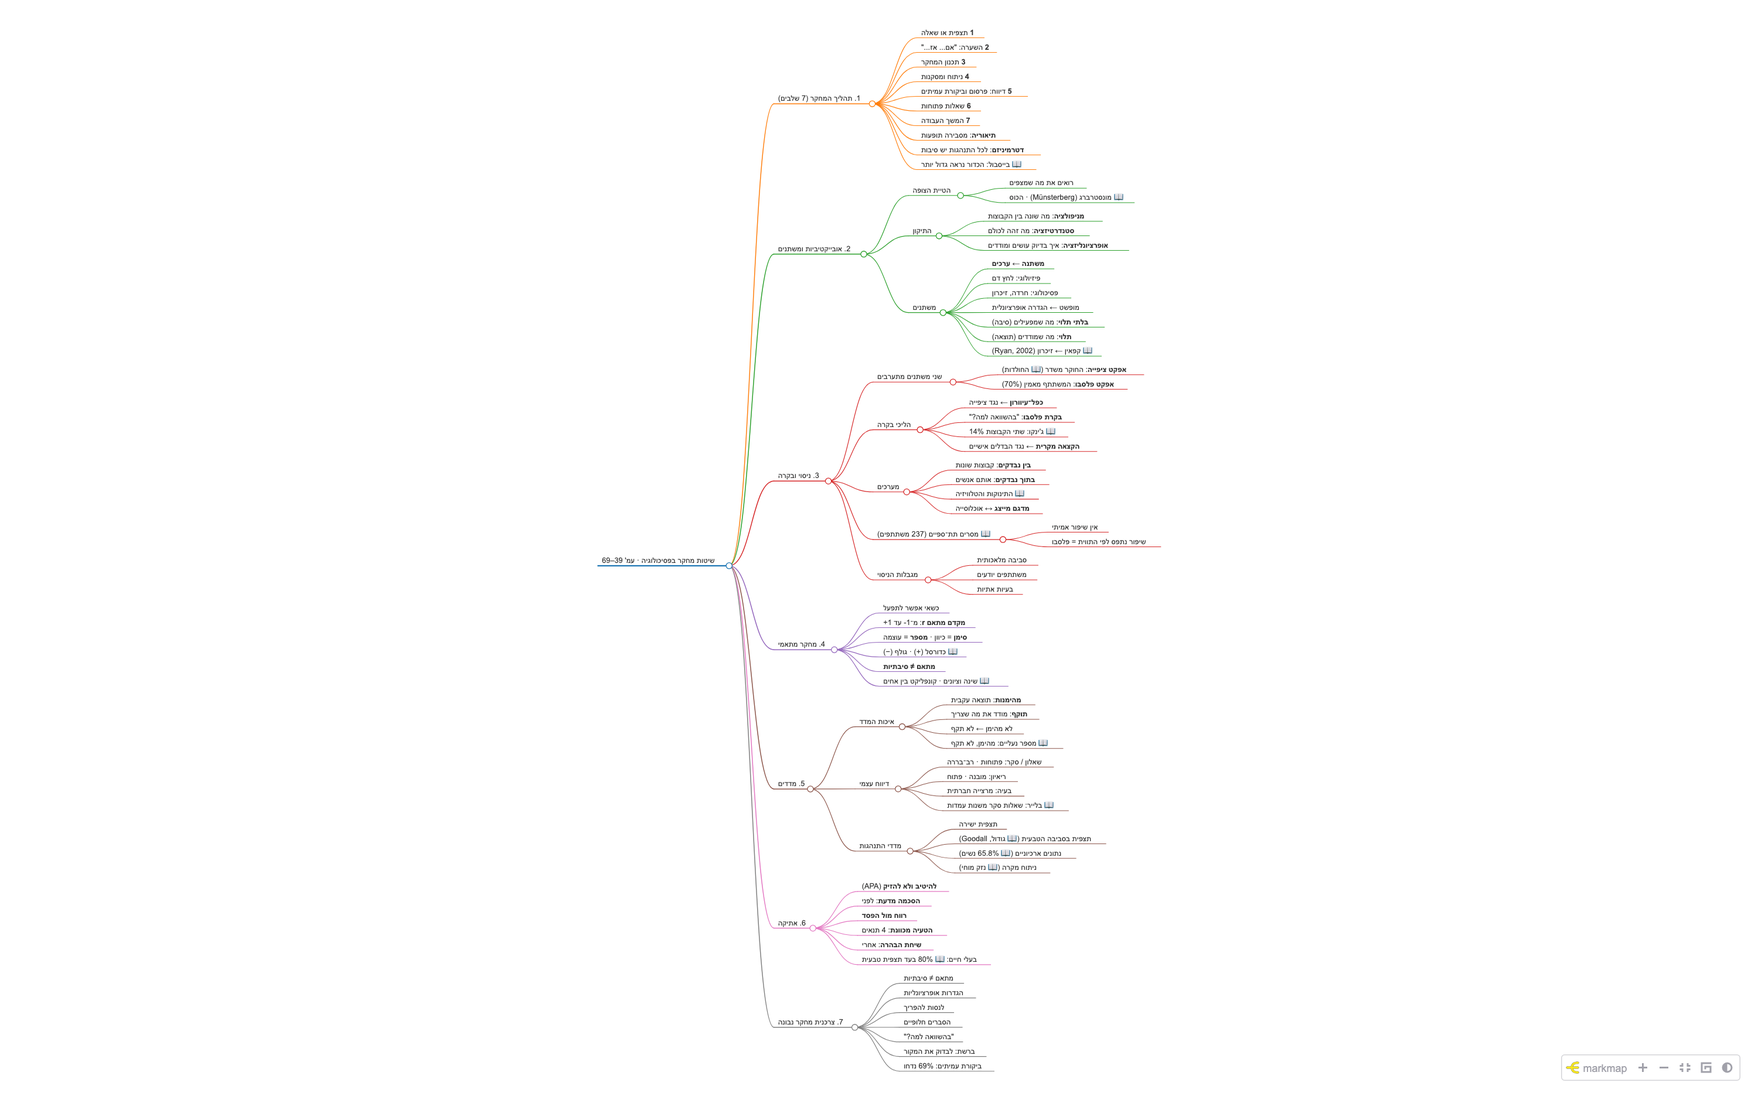
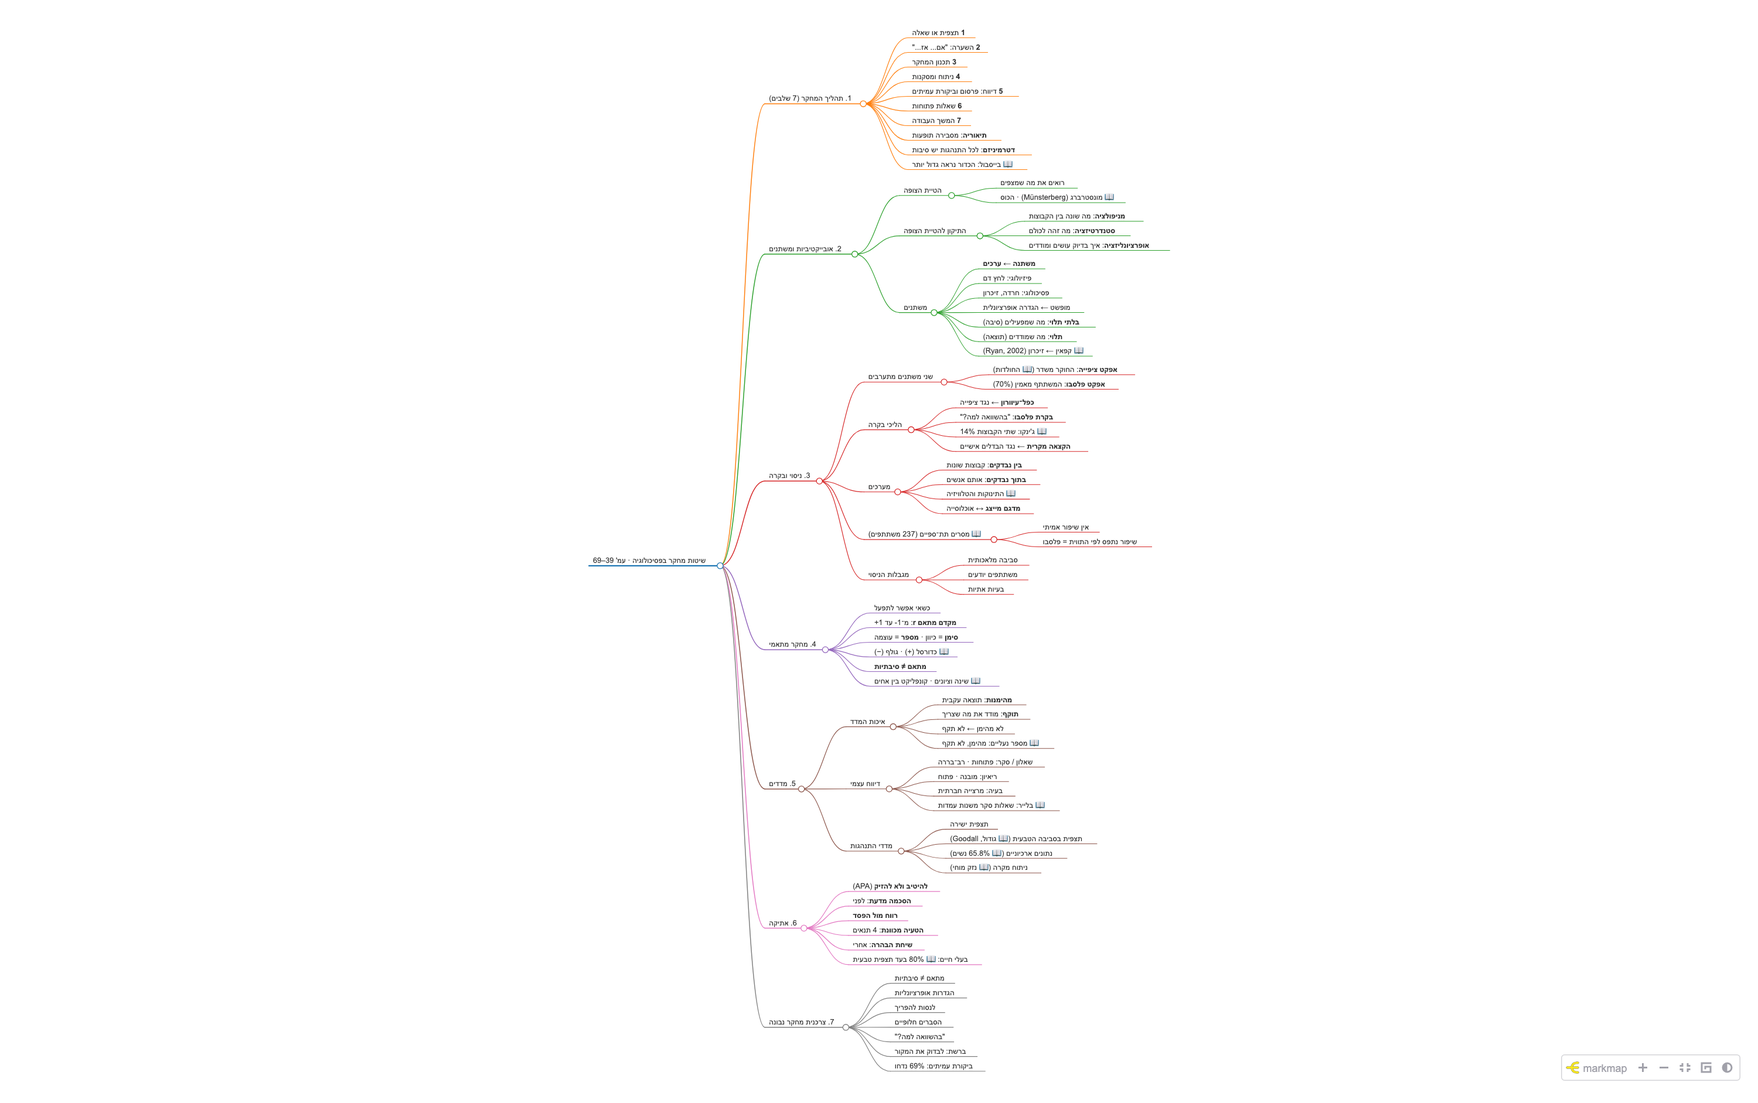
Chapter 2: clearer manipulation, standardization and operationalization; Feynman log
Section 2.4 now has a three-term table (with Russian) and two worked studies;
the fix is tied to observer bias; book term 'נקידה' restored. New style rule:
full concrete examples instead of blank templates.

diff --git a/מפות-חשיבה/39-69-שיטות-מחקר-בפסיכולוגיה.html b/מפות-חשיבה/39-69-שיטות-מחקר-בפסיכולוגיה.html
@@ -43,7 +43,7 @@ markmap:
 ### הטיית הצופה
 - רואים את מה שמצפים
 - 📖 מונסטרברג (Münsterberg) · הכוס
-### התיקון
+### התיקון להטיית הצופה
 - **מניפולציה**: מה שונה בין הקבוצות
 - **סטנדרטיזציה**: מה זהה לכולם
 - **אופרציונליזציה**: איך בדיוק עושים ומודדים

diff --git a/סיכומים/39-69-שיטות-מחקר-בפסיכולוגיה.md b/סיכומים/39-69-שיטות-מחקר-בפסיכולוגיה.md
@@ -93,6 +93,7 @@
 - 📖 **הוגו מונסטרברג (Hugo Münsterberg)**, תחילת המאה ה־20: הוא נשא נאום על שלום מול קהל גדול, וביניהם עיתונאים. הדיווחים בעיתונים סתרו זה את זה: אחד כתב שהקהל הופתע ושתק, אחר כתב שהיו מחיאות כפיים כל הזמן. אחד כתב שהנואם חייך, אחר שפניו היו רציניות. ייתכן שההבדלים נבעו מ**ההשקפות הפוליטיות** של העיתונאים.
 - 📖 **תרשים 2.2, הכוס:** אם ראית קודם כוסות שמתמלאות, תגידי שהכוס "חצי מלאה". אם ראית כוסות שמתרוקנות, תגידי "חצי ריקה". הניסיון הקודם שלך משנה את הפירוש.
 - **ההטיות פועלות כמו מסננת:** חלק מהדברים נראים חשובים ובעלי משמעות, וחלק "נעלמים" כלא רלוונטיים.
+- ➜ **איך מצמצמים אותה?** סטנדרטיזציה והגדרות אופרציונליות. זה "התיקון" (סעיף 2.4).
 - **מתי היא נוצרת?** (שאלה 8 במדריך) כשלחוקר יש **תיאוריה או ציפייה מראש**, וכשההתנהגות **פתוחה לפרשנות** (מונחים מופשטים). בספר: חוקר שעורך תצפית מחויב בדרך כלל לתיאוריה מסוימת.
 
 ### 2.2 משתנה ★ וערכים ★
@@ -112,17 +113,29 @@
 
 > **טריק זיכרון** *(לא מהספר)*: "**התלוי תלוי במה שעשו לבלתי תלוי.**" הבלתי תלוי לא תלוי בשום דבר בניסוי, כי החוקר בוחר אותו.
 
-### 2.4 התיקון: סטנדרטיזציה ★ ואופרציונליזציה
+### 2.4 התיקון להטיית הצופה: סטנדרטיזציה ★ ואופרציונליזציה
 
-> **התמונה המלאה במשפט אחד** *(לא מהספר)*: בניסוי משנים **דבר אחד** (מניפולציה), שומרים **את כל השאר** זהה (סטנדרטיזציה), ומגדירים **בדיוק** כל דבר שעושים ומודדים (אופרציונליזציה).
+> 📖 **"התיקון"** (כותרת בספר, עמ' 43) = מה החוקרים עושים כדי **לצמצם את הטיית הצופה** (סעיף 2.1). שני הכלים: **סטנדרטיזציה** ו**הגדרות אופרציונליות**.
 
-|                              | **מניפולציה** (manipulation)                  | **סטנדרטיזציה** ★ (standardization)                                                     | **אופרציונליזציה** (operationalization)                                             |
-| ---------------------------- | --------------------------------------------- | --------------------------------------------------------------------------------------- | ----------------------------------------------------------------------------------- |
-| **בפשטות**                   | מה **שונה** בין הקבוצות                       | מה **זהה** לכולם                                                                        | **איך בדיוק** עושים ומודדים                                                         |
-| **ההגדרה**                   | החוקרת קובעת ומפעילה את ערך המשתנה הבלתי תלוי | נהלים אחידים בכל שלבי איסוף הנתונים: תנאים, חומרים, הוראות, ניקוד לפי כללים שנקבעו מראש | מתרגמים מושג מופשט לפעולה מדויקת. בבלתי תלוי: איך **יוצרים**. בתלוי: איך **מודדים** |
-| **מה זה נותן**               | אפשר לבדוק סיבה ותוצאה                        | הבדל בתוצאות נובע מהבלתי תלוי ולא מהתנאים. אפשר להשוות בין משתתפים, מועדים וחוקרים      | 📘 חוקרים שונים יקבלו אותו מספר, בלי פרשנות אישית                                   |
-| 📖 **ניסוי הקפאין** (2.5)    | קבוצה אחת: קפה עם קפאין. השנייה: נטול קפאין   | אותה רשימה של 16 מילים, ומבחן אחרי 20 דקות בדיוק                                        | "עוררות" = קפאין או נטול. "ביצוע" = כמה מילים נזכרו                                 |
-| **המחקר של ענת:** אימון ומתח | קבוצת ניסוי מתאמנת, קבוצת ביקורת לא           | אותו יום בשבוע, אותו חדר, אור ורעש, אותו שאלון ואותן הוראות                             | "אימון" = 20 דקות בדופק המטרה. "מתח" = ציון בשאלון 1–10                             |
+> **שלושתם במשפט אחד** *(לא מהספר)*: בניסוי משנים **דבר אחד** (מניפולציה), שומרים **את כל השאר** זהה (סטנדרטיזציה), ומגדירים **בדיוק** כל דבר שעושים ומודדים (אופרציונליזציה).
+
+**שני המחקרים בטבלה:**
+- **מוזיקה וזיכרון** *(דוגמה שלי)*: האם למידה עם מוזיקה משפרת את הזיכרון? בלתי תלוי: מוזיקה. תלוי: זיכרון.
+- **אימון ומתח** *(המחקר שענת בנתה לשאלות 12–15 במדריך)*: האם פעילות גופנית מפחיתה מתח? בלתי תלוי: פעילות גופנית. תלוי: מתח.
+
+| המונח | בפשטות | По-русски | מוזיקה וזיכרון | אימון ומתח |
+|---|---|---|---|---|
+| **מניפולציה**      | מה אני **משנה** בין הקבוצות | что я **меняю** между группами | חצי לומדים עם מוזיקה, חצי בשקט                               | קבוצת ניסוי מתאמנת, קבוצת ביקורת לא                         |
+| **סטנדרטיזציה**    | מה **זהה** לכולם            | что **одинаково** у всех       | כולם לומדים אותה רשימה של 20 מילים                           | אותו יום בשבוע, אותו חדר, אור ורעש, אותו שאלון ואותן הוראות |
+| **אופרציונליזציה** | **איך בדיוק** עושים ומודדים | **как именно** делаю и измеряю | "זיכרון" = מספר המילים שהמשתתף כותב נכון 10 דקות אחרי הלמידה | "אימון" = 20 דקות בדופק המטרה. "מתח" = ציון בשאלון 1–10     |
+
+**ההגדרות של הספר, ומה כל אחד נותן:**
+
+| | **מניפולציה** (manipulation) | **סטנדרטיזציה** ★ (standardization) | **אופרציונליזציה** (operationalization) |
+|---|---|---|---|
+| **ההגדרה** | החוקרת קובעת ומפעילה את ערך המשתנה הבלתי תלוי | נהלים אחידים בכל שלבי איסוף הנתונים: תנאים, חומרים, הוראות, ו**נקידה** (scoring, מתן ציונים) לפי כללים שנקבעו מראש | מתרגמים מושג מופשט לפעולה מדויקת. בבלתי תלוי: איך **יוצרים**. בתלוי: איך **מודדים** |
+| **מה זה נותן** | אפשר לבדוק סיבה ותוצאה | הבדל בתוצאות נובע מהבלתי תלוי ולא מהתנאים. אפשר להשוות בין משתתפים, מועדים וחוקרים | 📘 חוקרים שונים יקבלו אותו מספר, בלי פרשנות אישית |
+| 📖 **ניסוי הקפאין** (2.5) | קבוצה אחת: קפה עם קפאין. השנייה: נטול קפאין | אותה רשימה של 16 מילים, ומבחן אחרי 20 דקות בדיוק | "עוררות" = קפאין או נטול. "ביצוע" = כמה מילים נזכרו |
 
 - **הגדרה אופרציונלית ★** (operational definition): כל הפעולות שמשמשות כדי **למדוד** את המושג או **לקבוע את קיומו**. כלומר, בתלוי: איך מודדים. בבלתי תלוי: איך יוצרים. 📘 עוברת מהרמה התיאורטית לרמת המדידה. בניסוי, **כל** המשתנים צריכים הגדרה כזו.
 - 📘 **בודקים הגדרה אופרציונלית בשתי שאלות:** ברור בדיוק מה נמדד? חוקרים שונים יקבלו ערכים דומים?

diff --git a/מעקב-למידה.md b/מעקב-למידה.md
@@ -66,7 +66,7 @@
 > מושגים שהתבלבלת בהם, טעויות שחזרו, שאלות שענית עליהן לא נכון.
 
 - **הגישה הביולוגית ומדעי המוח (התנהגותיים מול קוגניטיביים)**, עמ' 19–20: לא היה ברור אחרי שני הסברים בעברית, הוסבר ברוסית (2026-10-27). לבדוק שוב בחזרה הבאה. הדוגמה בסיכום ("למה קשה להתרכז כשלא ישנת") בלבלה.
-- **סטנדרטיזציה מול אופרציונליזציה**, עמ' 42–44 (שאלות 13–15 במדריך): מבינה את הדוגמאות, אבל קשה לבנות דוגמה לבד ולהבדיל ביניהן (2026-10-31). הסבר שני בעברית: "מה סופרים" מול "כולם באותם תנאים" (סעיף 2.2). לא היה ברור, הוסבר ברוסית (מרוץ 100 מטר; "операция" מול "стандарт"). אחרי תרגול על מחקר משלה הצליחה (פיינמן 4/5). לבדוק שוב בחזרה הבאה: למי משמשת ההגדרה האופרציונלית, ומה ההבדל בין סטנדרטיזציה לבחירת משתתפים. עוד בלבול: חשבה שהחוקרת קובעת את הבלתי תלוי "כדי שכולם יהיו בתנאים זהים". הגיעה לבד (ברמז של ניסוי הקפאין) לצורך בקבוצת ביקורת.
+- **סטנדרטיזציה מול אופרציונליזציה**, עמ' 42–44 (שאלות 13–15 במדריך): מבינה את הדוגמאות, אבל קשה לבנות דוגמה לבד ולהבדיל ביניהן (2026-10-31). הסבר שני בעברית: "מה סופרים" מול "כולם באותם תנאים" (סעיף 2.2). לא היה ברור, הוסבר ברוסית (מרוץ 100 מטר; "операция" מול "стандарт"). אחרי תרגול על מחקר משלה הצליחה (פיינמן 4/5). לבדוק שוב בחזרה הבאה: למי משמשת ההגדרה האופרציונלית, ומה ההבדל בין סטנדרטיזציה לבחירת משתתפים. עוד בלבול: חשבה שהחוקרת קובעת את הבלתי תלוי "כדי שכולם יהיו בתנאים זהים". הגיעה לבד (ברמז של ניסוי הקפאין) לצורך בקבוצת ביקורת. אחרי טבלת שלושת המונחים (מניפולציה, סטנדרטיזציה, אופרציונליזציה) סיווגה נכון 3 מתוך 3 בדוגמת המוזיקה והזיכרון.
 
 ---
 
@@ -90,4 +90,4 @@
 | 2026-10-27 | סיכום עמ' 16–25 (שבע הגישות), עדכון מונחון, פודקאסט ב־NotebookLM. |
 | 2026-10-27 | עמ' 25–29 (במה עוסקים הפסיכולוגים): סיכום, פודקאסט, מפת חשיבה. נבנה הסקיל `study-pack`. |
 | 2026-10-31 | פרק 2 (עמ' 39–69): סיכום לפי עשרת שלבי הקריאה במדריך, פודקאסט, מפת חשיבה. נספח סטטיסטי (עמ' 75–92): סיכום ומפה. 69 מונחים ו־3 דמויות חדשים במונחון. תיקון: וונדט גם בסטרוקטורליזם. כללים חדשים: בלי "בבחינה" בכל תשובה, ובדיקת שיוך חוקרים ב־PDF. |
-| 2026-10-31 | סטנדרטיזציה ואופרציונליזציה: הסבר ברוסית ותרגול על מחקר משלה (פעילות גופנית ומתח), פיינמן 4/5. בסיכום: משתנים פיזיולוגיים ופסיכולוגיים, סעיף 2.2 נכתב מחדש. כלל חדש: סיכום מסכם, לא מנפח. |
+| 2026-10-31 | סטנדרטיזציה ואופרציונליזציה: הסבר ברוסית ותרגול על מחקר משלה (פעילות גופנית ומתח), פיינמן 4/5. בסיכום: משתנים פיזיולוגיים ופסיכולוגיים, סעיף 2.2 נכתב מחדש. כלל חדש: סיכום מסכם, לא מנפח. **בפעם הבאה:** חזרה על סטנדרטיזציה, אופרציונליזציה ומניפולציה, ואז שלב 3 במדריך (ניסויים ובקרה). |

diff --git a/CLAUDE.md b/CLAUDE.md
@@ -20,6 +20,7 @@
 - **פנייה בלשון נקבה** (ענת כותבת על עצמה בלשון נקבה).
 - **רוסית:** ענת דוברת רוסית. כשמשהו לא מובן אחרי שני הסברים בעברית, להסביר **ברוסית** (המונחים בעברית בסוגריים, כי הבחינה בעברית).
 - **בלי "בבחינה" בכל תשובה.** ענת עדיין לומדת את החומר. בשיחה ובקבצים מתמקדים ב**הבנה**. את הבחינה מזכירים רק כשהיא שואלת עליה, ב"תבחן אותי" או בהכנה לבחינה (בקשה של ענת).
+- **דוגמה מלאה, לא תבנית.** לא לכתוב תבניות עם מקומות ריקים ("___ = ___"). במקום זה משפט מלא ומוחשי, למשל "זיכרון = מספר המילים שהמשתתף כותב נכון 10 דקות אחרי הלמידה" (התבנית בלבלה את ענת).
 - **שאלה אחת בכל פעם.** מחכים לתשובה לפני שממשיכים.
 - **בשיחה: קצר.** תוכן ארוך (סיכומים, טבלאות) נכנס לקבצים.
 - **טריקי זיכרון:** משפט **הגיוני** שיש בו משמעות, ועדיף שיהיה קשור לנושא. לא רצף מילים שרירותי (ענת העירה על "פרויד בא הביתה קצת בלי אוכל חם").
